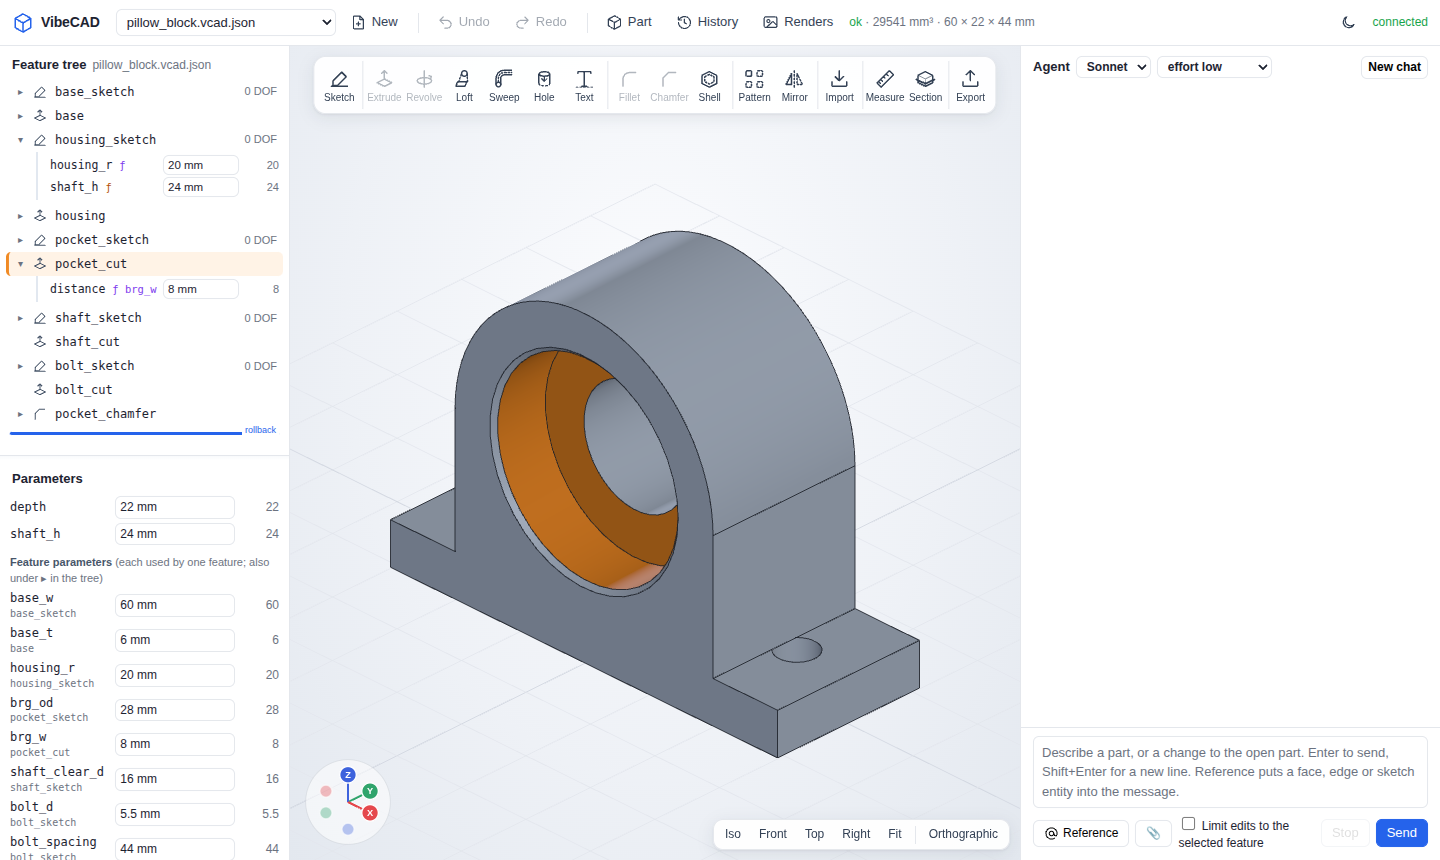
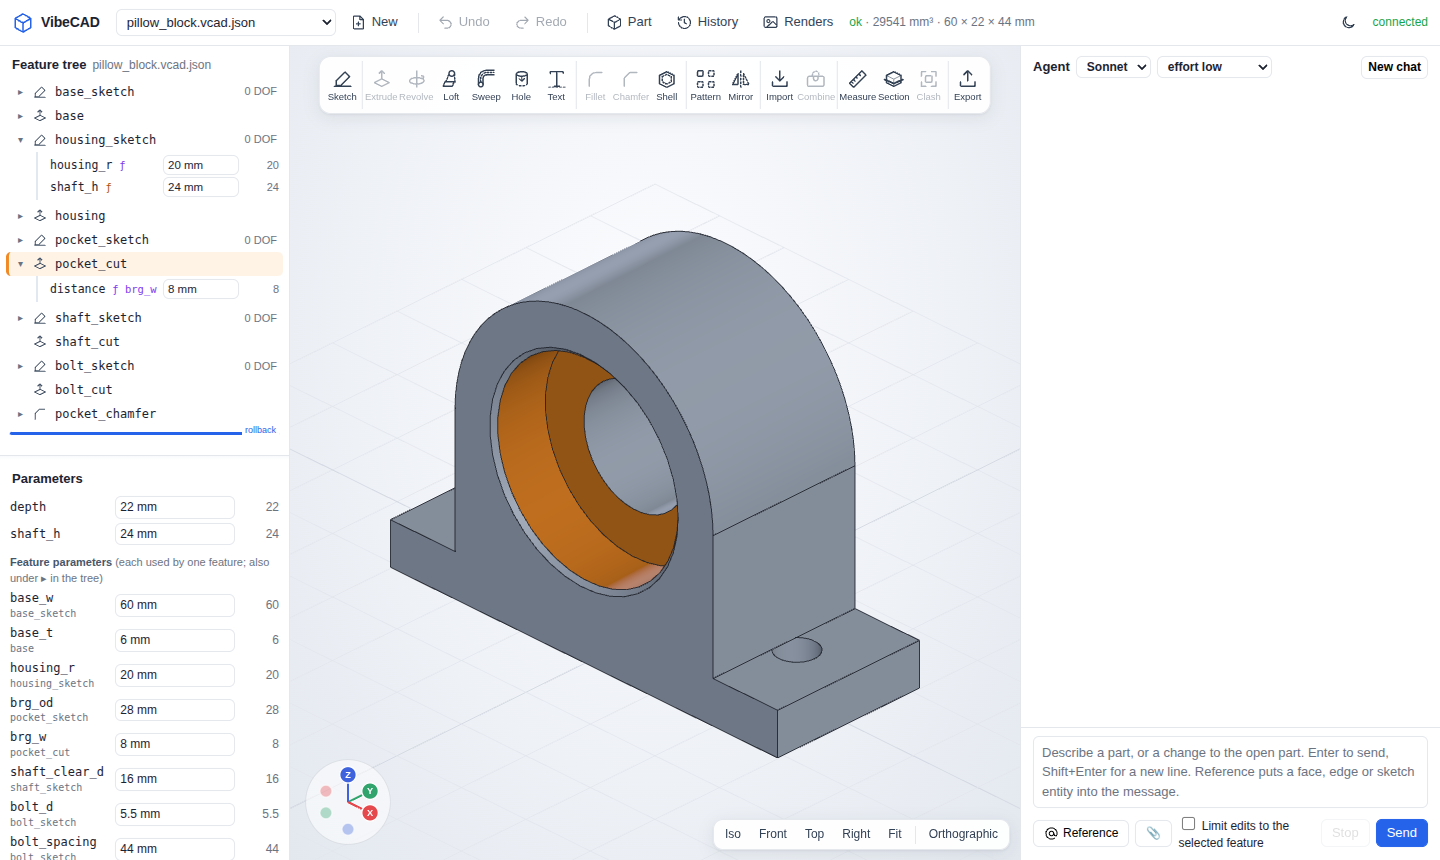
Import several files at once; up-to-face lists reference faces; README for designing around imports
- Choosing or dropping several CAD files imports them one after another.
- The extrude's 'up to face' list includes faces of reference bodies
  (standoffs up to an imported PCB).
- README: a 'Designing around imported parts' walkthrough (import, place by
  faces, shape against it, nest with clearance, Clash) with new screenshots;
  GIFs and screenshots re-recorded with the current toolbar.

Claude-Session: https://claude.ai/code/session_01SRATcLwogJ5xj5GizYYcMd

Changed region(s): [[0.2188, 0.0605, 0.6875, 0.1209]]

diff --git a/core/vibecad/static/app.js b/core/vibecad/static/app.js
@@ -1985,10 +1985,16 @@ $("#importBtn").onclick = async () => {
     importForm(info);
   }));
 };
+// several files (chosen together, or dropped together) import one after another: the next form opens when one is done
+let importQueue = [];
+function importNext() {
+  const f = importQueue.shift();
+  if (f) importFlow(f);
+}
 $("#importFile").onchange = async () => {
-  const f = $("#importFile").files[0];
+  importQueue = [...$("#importFile").files];
   $("#importFile").value = "";  // choosing the same file again must still import it
-  if (f) await importFlow(f);
+  importNext();
 };
 async function importFlow(file) {
   let info;
@@ -2037,16 +2043,19 @@ function importForm(info) {
     }
     m.hidden = true;
     if (await addFeature(f, `import ${info.name}`)) { select(id); fitView("iso"); }
+    importNext();
   };
+  if (importQueue.length) $("#imGo").textContent = `Import, then the next (${importQueue.length} more)`;
 }
 // drop a CAD file anywhere on the 3D view to import it
 $("#center").addEventListener("dragover", (ev) => { if ([...ev.dataTransfer.items].some((i) => i.kind === "file")) ev.preventDefault(); });
 $("#center").addEventListener("drop", (ev) => {
-  const f = [...ev.dataTransfer.files].find((x) => /\.(step|stp|iges|igs|brep|brp|stl)$/i.test(x.name));
-  if (!f) return;
+  const fs = [...ev.dataTransfer.files].filter((x) => /\.(step|stp|iges|igs|brep|brp|stl)$/i.test(x.name));
+  if (!fs.length) return;
   ev.preventDefault();
   if (!S) return note("Open or create a part first.", "err");
-  importFlow(f);
+  importQueue = fs;
+  importNext();
 });
 
 // ── export: download the shown part ──

diff --git a/tests/gui/realparts.js b/tests/gui/realparts.js
@@ -487,6 +487,18 @@ const near = (a, b, tol) => a != null && b != null && Math.abs(a - b) <= tol;
   const drafted = await page.evaluate(() => fetch("/api/feature/extrude2").then((r) => r.json()));
   check("the draft is stored on the feature and nothing else changed", drafted.draft === 5 && drafted.extent === "up_to_face" && (drafted.distance ?? 0) === 0, JSON.stringify(drafted));
 
+  // ── two files chosen at once import one after the other ──
+  await newPart("multi_import");
+  await page.setInputFiles("#importFile", [path.join(FIX, "phone.step"), path.join(FIX, "pillow_block.step")]);
+  await page.waitForSelector("#imGo", { timeout: 30000 });
+  check("the first form says another file follows", (await page.textContent("#imGo")).includes("1 more"), await page.textContent("#imGo"));
+  await page.click("#imGo");
+  await page.waitForFunction(() => document.querySelector("#imGo")?.textContent === "Import" && !document.querySelector("#featMenu").hidden, null, { timeout: 30000 });
+  check("then the second file's form opens", (await page.inputValue("#imId")).startsWith("pillow_block"));
+  await page.click("#imGo");
+  await idle();
+  check("both files imported", (await state()).features.filter((f) => f.type === "import").length === 2);
+
   // ── design around two imported parts: each reference has its own colour and an eye; Fit shows clashes and gaps ──
   await newPart("fit_test");
   await importFile("phone.step", { mode: "reference", place: "origin" });

diff --git a/tests/gui/readme_shots.js b/tests/gui/readme_shots.js
@@ -161,6 +161,28 @@ const sleep = (ms) => new Promise((r) => setTimeout(r, ms));
   await page.mouse.move(1000, 850);
   await shot("sweep");
 
+  // 11. designing around an imported part: the cell holder, with Clash showing the 0.3 mm gap to the cell
+  await open(BASE, "cell_holder.vcad.json");
+  await page.click("#clashBtn");
+  await page.waitForSelector("#clashPanel .fitrow", { timeout: 20000 });
+  await page.click("#tree li.feat[data-id=nest] .fid");
+  await sleep(1200);
+  await page.mouse.move(1000, 850);
+  await shot("clash");
+  await page.click("#clashBtn");
+
+  // 12. placing an import by its faces: the cell's top against the block's top (the form, before applying)
+  await page.click("#tree li.feat[data-id=cell] .fid");
+  await page.waitForSelector("#details [data-a=mate]");
+  await page.click("#details [data-a=mate]");
+  [x, y] = await world(-12, 0, 75);
+  await page.mouse.click(x, y); await sleep(700);
+  [x, y] = await world(0, 9, 30);
+  await page.mouse.click(x, y); await sleep(900);
+  await page.mouse.move(1000, 850);
+  await shot("place");
+  await page.keyboard.press("Escape");
+
   // 10. the SVG drawing export of the mounting plate, rendered on its own
   await open(BASE, "mounting_plate.vcad.json");
   const svg = await page.evaluate(() => fetch("/api/export?fmt=svg").then((r) => r.text()));

diff --git a/core/vibecad/static/index.html b/core/vibecad/static/index.html
@@ -79,7 +79,7 @@
         <button id="sectionBtn" class="rb" data-icon="section" data-label="Section" title="Section view: cut the view with a plane"></button>
         <button id="clashBtn" class="rb" data-icon="fit" data-label="Clash"></button></div>
       <div class="rgroup"><button id="exportBtn" class="rb" data-icon="export" data-label="Export" title="Download the part as STEP, STL, 3MF, BREP or glTF"></button></div>
-      <input id="importFile" type="file" accept=".step,.stp,.iges,.igs,.brep,.brp,.stl" hidden>
+      <input id="importFile" type="file" accept=".step,.stp,.iges,.igs,.brep,.brp,.stl" multiple hidden>
     </div>
     <div class="vtools left viewbar">
       <button data-view="iso" title="Isometric view">Iso</button><button data-view="front" title="Front view (looking along +Y)">Front</button>

diff --git a/core/vibecad/app.py b/core/vibecad/app.py
@@ -503,7 +503,9 @@ class App:
         later = set(ids[ids.index(before):]) if before in ids else set()
         body = s.result.body
         out, seen = [], set()
-        for face, lab in body.labels:
+        pool = [(face, lab, body) for face, lab in body.labels]  # the part's faces, then the reference bodies'
+        pool += [(face, lab, rb) for rid, rb in s.result.refs.items() if rid not in later for face, lab in rb.labels]
+        for face, lab, owner in pool:
             if lab.feature in later or bd.Face(TopoDS.Face(face)).geom_type != bd.GeomType.PLANE:
                 continue
             F = bd.Face(TopoDS.Face(face))
@@ -515,7 +517,7 @@ class App:
             seen.add((str(lab), t))
             ref = {"feature": lab.feature, "role": lab.role, **({"entity": lab.entity} if lab.entity else {}),
                    **({"instance": lab.instance} if lab.instance else {})}
-            hits = resolve_faces(body, S.FaceRef.model_validate(ref))
+            hits = resolve_faces(owner, S.FaceRef.model_validate(ref))
             heights = {round((bd.Face(TopoDS.Face(h)).center() - frame.origin).dot(frame.n), 6) for h in hits}
             if len(heights) > 1:
                 c = face_center(face)

diff --git a/tests/test_app.py b/tests/test_app.py
@@ -382,3 +382,17 @@ def test_fit_reports_overlap_gap_and_clash_mesh_per_reference(tmp_path):
     assert q[0] - p[0] == pytest.approx(3, abs=1e-6)
     st = a.state()
     assert [f.get("mode") for f in st["features"] if f["type"] == "import"] == ["reference", "reference"]
+
+
+def test_parallel_faces_include_reference_bodies(tmp_path):
+    import build123d as bd
+
+    a = _app(tmp_path)
+    bd.export_step(bd.Box(10, 10, 10, align=bd.Align.MIN), str(tmp_path / "cube.step"))
+    ops = [{"op": "add_feature", "feature": {"id": "pcb", "type": "import", "file": "cube.step", "mode": "reference", "translate": [200, 0, 40]}},
+           {"op": "add_feature", "feature": {"id": "post_sk", "type": "sketch", "plane": {"datum": "XY"}}}]
+    assert '"ok": true' in a.ws.apply_ops(ops, "a reference above", "user")
+    faces = a.parallel_faces("post_sk")
+    pcb = [f for f in faces if f["label"].startswith("pcb.")]
+    assert sorted(f["distance"] for f in pcb) == [40, 50], pcb  # its underside and its top
+    assert all(f["ref"]["feature"] == "pcb" for f in pcb)

diff --git a/README.md b/README.md
@@ -1,6 +1,6 @@
 # VibeCAD
 
-AI-assisted parametric CAD. You and the AI edit the same thing: a readable feature tree of named parameters, fully constrained sketches and features (`*.vcad.json`), regenerated into a B-rep solid with OpenCascade. You can talk to the agent, edit by hand, or both in the same session. Either way every change is one undoable step.
+AI-assisted parametric CAD. You and the AI edit the same thing: a readable feature tree of named parameters, fully constrained sketches and features (`*.vcad.json`), regenerated into a B-rep solid with OpenCascade. You can talk to the agent, edit by hand, or both in the same session. Either way every change is one undoable step. It is made for real parts: import the STEP of the phone, motor or board you are designing around, place it by its faces, and cut, sketch and check clearances against it. Then export STEP, STL or 3MF, or a dimensioned drawing.
 
 ![The VibeCAD app: feature tree with per-feature parameters, the modelling toolbar over the 3D view, agent panel](docs/img/overview.png)
 
@@ -12,6 +12,8 @@ Design doc: https://claude.ai/code/artifact/143cbf50-54de-4302-849d-9ac99055b488
 | ![Changing parameters, dragging the rollback bar](docs/img/params.gif) | ![Sketching a plate, dimensioning it, extruding, cutting a hole](docs/img/sketch.gif) |
 | [Fillets and edges](#pick-edges-and-faces-then-fillet-or-chamfer) | [The agent](#talk-to-the-agent-pointing-at-geometry) |
 | ![Changing a fillet's edges, then filleting two picked edges](docs/img/edges.gif) | ![Asking the agent, referencing an edge, attaching an image](docs/img/agent.gif) |
+| [Designing around imported parts](#designing-around-imported-parts) | [Drawings and export](#holes-measuring-sections) |
+| ![A holder built around an imported cell, with Clash showing its clearance](docs/img/clash.png) | ![A drawing exported from the mounting plate](docs/img/drawing.png) |
 
 ## What it looks like
 
@@ -53,7 +55,7 @@ Click a sketch to edit it on its plane, viewed straight on. The solver (PlaneGCS
 - **Offset** (`K`): select an edge; its whole connected outline is copied at a distance (a negative one for inside). The copy follows the original and its distance can be a parameter, so "a 2 mm wall inside this outline" or "a 0.3 mm clearance around the projected phone" stay right when sizes change.
 - **Other actions:** rename, → Param (turn a dimension into a named parameter), construction, delete, and Ask agent. Ask agent sends the selected entities and the constraints on them.
 
-**Modelling by hand.** The toolbar across the top of the view has **Sketch** (on XY, XZ or YZ with an offset, or on the face you last clicked), **Extrude**, **Revolve**, **Loft**, **Sweep**, **Hole**, **Text**, **Fillet**, **Chamfer**, **Shell**, **Pattern**, **Mirror**, **Import**, **Measure**, **Section** and **Export**. Extrude and Revolve act on the sketch selected in the tree, or else the newest sketch nothing uses yet; they open it with the form (a distance, through all, or up to a face parallel to the sketch, picked from a list; a draft angle for molded or printed parts; direction; add / cut / new / intersect; revolve axis and angle). Inside a sketch the same two buttons sit in the dark bar at the top. The gizmo in the corner shows the axes; click one to look along it.
+**Modelling by hand.** The toolbar across the top of the view has **Sketch** (on XY, XZ or YZ with an offset, or on the face you last clicked), **Extrude**, **Revolve**, **Loft**, **Sweep**, **Hole**, **Text**, **Fillet**, **Chamfer**, **Shell**, **Pattern**, **Mirror**, **Import**, **Combine**, **Measure**, **Section**, **Clash** and **Export**. Extrude and Revolve act on the sketch selected in the tree, or else the newest sketch nothing uses yet; they open it with the form (a distance, through all, or up to a face parallel to the sketch, picked from a list; a draft angle for molded or printed parts; direction; add / cut / new / intersect; revolve axis and angle). Inside a sketch the same two buttons sit in the dark bar at the top. The gizmo in the corner shows the axes; click one to look along it.
 
 **Loft** blends a solid through the profiles of two or more sketches (a square fan duct into a slot, with a second loft through inset sections to hollow it); **Sweep** moves a profile along the lines and arcs of another sketch (a bent tube from a ring and a centreline; sharp corners are mitred).
 
@@ -61,17 +63,34 @@ Click a sketch to edit it on its plane, viewed straight on. The solver (PlaneGCS
 |---|---|
 | ![The duct adapter with its inside loft's form open](docs/img/loft.png) | ![A bent tube swept along its centreline](docs/img/sweep.png) |
 
-### Working with real parts
+### Designing around imported parts
+
+Most real parts exist to hold, mount or enclose something else: a phone, a motor, a board, a battery. VibeCAD is built for that. Import the parts you design around, put them where they go, then shape your part against them. It follows them when they move or change.
 
 ![Importing a STEP file: format, size in the part, units, placement](docs/img/import.png)
 
-**Import** (or drop a file on the view) brings in STEP, IGES, BREP or STL. The form shows what is in the file and its size once scaled. The units are guessed from the size, and you can type your own scale. You can keep the file's position or centre it on the origin. Choose how it joins the model:
-- **Reference:** a mating part to design around (a phone, a motor, a board). It is drawn in violet and is not part of the solid, but you can sketch on its faces, **Project** its edges into a sketch, and measure to it.
-- **Base solid, add, cut, intersect:** it becomes part of the model. IGES and STL surfaces are sewn into a solid when they close.
+1. **Import** STEP, IGES, BREP or STL, or another VibeCAD part (`.vcad.json`, kept live). Choose several files at once, or drop them on the view, and their forms open one after another. The form shows what is in the file and its size once scaled; the units are guessed from the size, and you can type your own scale. Keep the file's position or centre it on the origin.
+   - **Reference** (the default once the part has a solid): a body to design around. It isn't part of your solid. Each reference gets its own colour, and an eye in the tree hides it.
+   - **Base solid, add, cut, intersect:** it becomes part of the model. IGES and STL surfaces are sewn into a solid when they close.
 
-The file is copied next to the part (`imports/`) and re-read when it changes on disk.
+   The file is copied next to the part (`imports/`) and re-read when it changes on disk.
+2. **Place it by its faces.** Select the import, click **Place by faces…**, then click a flat face of it and the face it should sit against. Choose a gap, and whether to centre it on that face or slide it straight in. No rotation angles to work out: this rewrites the import's rotation and position for you.
+3. **Shape your part against it.**
+   - Sketch on its faces, or **Project** its edges into a sketch; **Offset** them for a wall or a clearance.
+   - Extrude **up to** one of its faces (the extrude form lists the faces parallel to the sketch, the imports' too).
+   - **Measure** to it.
+4. **Cut a nest for it.** **Combine** (or **Cut a nest for it…** on a selected reference) cuts the body out of your part, grown by a clearance all round, with rounded corners so the gap is the same everywhere. That gives a battery holder, a phone cradle or a case pocket. The nest follows the import, and can be patterned like any feature. Combine can also add the body, or keep only the overlap.
+5. **Check the fit.** **Clash** lists every reference with its overlap volume (drawn in red where your part runs into it) or its smallest gap (drawn as a line). It checks again after every edit.
+
+| Clash: the cell holder's nest leaves 0.3 mm round the imported cell | Place by faces: the cell's top against the block's top |
+|---|---|
+| ![The cell holder with Clash on: the cell ghosted in violet, 0.3 mm clear](docs/img/clash.png) | ![Placing the cell by clicking two faces: gap and centring](docs/img/place.png) |
+
+`examples/cell_holder.vcad.json` is a worked example: it imports `cell_18650.vcad.json` as a live reference and cuts two nests with a clearance parameter. Change the cell's diameter in its own file and the holder's nests follow.
 
 For a phone case, import the phone as a solid, click its screen, and **Shell** it outward by the wall thickness: the case skin, open where the screen is.
+
+### Holes, measuring, sections
 
 ![Adding a counterbored hole where the face was clicked: ISO screw presets](docs/img/holes.png)
 
@@ -145,7 +164,7 @@ uv run vibecad tree examples/enclosure_lid.vcad.json         # feature tree with
 
 ### Designing parts with Claude Code
 
-Register the MCP server once: `claude mcp add --scope project vibecad -- uv run --quiet vibecad-mcp`. Then ask Claude Code for a part in this folder. `CLAUDE.md` loads the design guide (`agent/GUIDE.md`).
+Register the MCP server once: `claude mcp add --scope project vibecad -- uv run --quiet vibecad-mcp`. Then ask Claude Code for a part in this folder. `CLAUDE.md` loads the design guide (`agent/GUIDE.md`). The agent works the same way around imports: `import` with mode `reference`, `place_import` by faces, a `boolean` cut with `clearance`, and `check_fit`.
 
 ## How it works
 
@@ -160,15 +179,20 @@ Register the MCP server once: `claude mcp add --scope project vibecad -- uv run 
 
 ## Status
 
-- **Reference parts:** 11 in `examples/`, including a bracket, pillow block, enclosure lid, NEMA 17 mount, battery tray and strap, hex standoff, and a mounting plate with counterbored, countersunk and tapped holes. They regenerate with every sketch fully constrained, and their volumes match hand calculations. Every parameter is swept ±10% and must still rebuild.
-- **Tests:** `uv run pytest` runs 332 tests. They include imports of STEP, IGES, BREP and STL (exact round trips, units, placement, sewing surfaces), and every hole type against its volume formula.
-- **Browser tests:** `scripts/gui_smoke.sh` runs about 280 Playwright checks. They cover:
+- **Reference parts:** 17 in `examples/`, including a bracket, pillow block, enclosure lid and its gasket, NEMA 17 mount, battery tray and strap, hex standoff, a mounting plate with counterbored, countersunk and tapped holes, a drafted molded boss, a lofted fan duct, a bent tube, and a cell holder built around an imported cell. They regenerate with every sketch fully constrained, and their volumes match hand calculations. Every parameter is swept ±10% and must still rebuild.
+- **Tests:** `uv run pytest` runs about 450 tests. They include:
+  - imports of STEP, IGES, BREP and STL (exact round trips, units, placement, sewing surfaces);
+  - every hole type, draft, loft, sweep and clearance nest against its volume formula;
+  - placing imports by their faces;
+  - the drawing export.
+- **Browser tests:** `scripts/gui_smoke.sh` runs about 350 Playwright checks. They cover:
   - the main flows
   - modelling a part by hand from an empty file
   - the sketch editor
   - the agent panel, against a scripted agent
   - editing a fillet's edges, per-part conversations, attachments and the rebuild indicator
-  - real-part work: imports, holes, pattern, mirror, shell (including the phone case), measure, section, export and editing features
+  - real-part work: importing several files, placing them by faces, Clash, clearance nests, holes, pattern, mirror, shell (including the phone case), loft, sweep, draft and up-to-face extrudes, measure, section, export (including drawings) and editing features
+  - the ribbon at three window widths
 
   With `USERPARTS=folder` it also opens your own parts, changes a parameter of each and undoes it.
 
